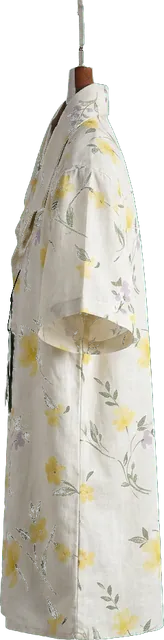
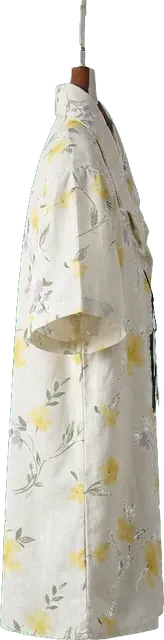
Home rails: thick rod, every piece side-on facing right, same height
- Thicker metal rod on the curved rails (Men, Women, Accessories)
- 9 more AI side photos (jackets, katua, polo, sweater, sweatshirt) and a new sky blue shirt side;
  every side photo mirrored so the collar / buttons point right
- Side photos are sized by height so wide pieces hang as tall as the rest
- Admin home photo: built-in side shows, Flip button, AI side prompt asks for the front to the right

diff --git a/src/components/ShowcasePhotoField.jsx b/src/components/ShowcasePhotoField.jsx
@@ -1,8 +1,8 @@
 import React, { useEffect, useRef, useState } from 'react';
 import { getShowcase } from '../showcaseStore';
-import { prepareShowcaseImage, urlToShowcaseImage, keyBgToShowcase, pickKeyColour } from '../utils/showcaseImage';
+import { prepareShowcaseImage, urlToShowcaseImage, keyBgToShowcase, pickKeyColour, mirrorShowcaseImage } from '../utils/showcaseImage';
 import { makeAiPhoto } from '../aiPhoto';
-import { CUTOUTS, cutoutSrc } from '../data/cutouts';
+import { CUTOUTS, cutoutSrc, cutoutSideSrc } from '../data/cutouts';
 
 // Admin product form: the background-free "home page photo" of a product (hanging rail / shoe wheel)
 // plus up to 3 more angles (back, side) for the quick view.
@@ -65,7 +65,7 @@ export default function ShowcasePhotoField({ productId, value, onChange, isDarkM
   if (value && value.image) shown = { src: value.image, side: value.side || null, hanger: !!value.hanger, extra: value.extra || [], from: value.auto ? 'auto' : 'new' };
   else if (value && (value.remove || value.off)) shown = null;
   else if (saved && saved.image) shown = { src: saved.image, side: saved.side || null, hanger: !!saved.hanger, extra: saved.extra || [], from: 'uploaded' };
-  else if (base && !(saved && saved.off)) shown = { src: cutoutSrc(base.id), side: null, hanger: !!base.hanger, extra: [], from: 'built-in' };
+  else if (base && !(saved && saved.off)) shown = { src: cutoutSrc(base.id), side: base.side ? cutoutSideSrc(base.id) : null, hanger: !!base.hanger, extra: [], from: 'built-in' };
 
   // the current state as an editable value (a built-in picture is turned into a data URL first)
   // 📌 pin: shown first on the home rail (1 = first). From the pending change, else from the saved entry.
@@ -87,7 +87,8 @@ export default function ShowcasePhotoField({ productId, value, onChange, isDarkM
     const cur = shownRef.current;
     if (!cur) return null;
     const image = cur.from === 'built-in' ? await urlToShowcaseImage(cur.src) : cur.src;
-    return { image, side: cur.side, hanger: cur.hanger, extra: [...cur.extra], pin: pinRef.current };
+    const side = cur.from === 'built-in' && cur.side ? await urlToShowcaseImage(cur.side) : cur.side;
+    return { image, side, hanger: cur.hanger, extra: [...cur.extra], pin: pinRef.current };
   };
   const change = (next) => {
     shownRef.current = next && next.image ? { src: next.image, side: next.side || null, hanger: !!next.hanger, extra: next.extra || [], from: 'new' } : null;
@@ -137,6 +138,12 @@ export default function ShowcasePhotoField({ productId, value, onChange, isDarkM
     });
   };
   const removeSide = () => run(async () => { const cur = await editable(); change({ ...cur, side: null }); });
+  // every side photo on the rail faces the same way (collar / buttons to the right); Flip mirrors one that does not
+  const flipSide = () => run(async () => {
+    const cur = await editable();
+    if (!cur || !cur.side) return;
+    change({ ...cur, side: await mirrorShowcaseImage(cur.side) });
+  });
   const removeExtra = (i) => run(async () => {
     const cur = await editable();
     cur.extra.splice(i, 1);
@@ -213,13 +220,20 @@ export default function ShowcasePhotoField({ productId, value, onChange, isDarkM
         </div>
         {shown && (
           <div className="text-center">
-            {shown.side ? <Thumb src={shown.side} big onRemove={removeSide} /> : (
+            {shown.side ? (
+              <>
+                <Thumb src={shown.side} big onRemove={removeSide} />
+                <button type="button" disabled={busy} onClick={flipSide} title="Mirror the side photo: the collar / buttons must point to the RIGHT, like every piece on the rail"
+                  className="mt-1 w-32 rounded border border-gray-300 py-1 text-[11px] font-semibold text-gray-600 hover:border-[#D4AF37] hover:text-[#D4AF37] disabled:opacity-50">⇋ Flip</button>
+              </>
+            ) : (
               <button type="button" disabled={busy} onClick={() => sideRef.current && sideRef.current.click()}
                 className="h-36 w-32 rounded border border-dashed border-gray-300 text-[11px] font-semibold text-gray-500 px-2 hover:border-[#D4AF37] hover:text-[#D4AF37] disabled:opacity-50">
                 + Side photo<br /><span className="font-normal">(optional)</span>
               </button>
             )}
             <p className="mt-1 text-[10px] font-semibold text-gray-500">SIDE</p>
+            {shown.side && <p className="w-32 text-[10px] leading-tight text-gray-400">Collar / buttons must point RIGHT →</p>}
           </div>
         )}
         <div className="flex flex-col gap-2 text-xs">

diff --git a/src/components/HangerRail.jsx b/src/components/HangerRail.jsx
@@ -47,16 +47,23 @@ export function PriceTagHang({ price, originalPrice, formatPrice, rotate = -6 })
 function Rod({ variant }) {
   if (variant === 'curve') {
     return (
-      <svg className="pointer-events-none absolute inset-x-0 w-full" style={{ top: ROD_Y - 3, height: SAG + 10 }} viewBox="0 0 1000 100" preserveAspectRatio="none" aria-hidden="true">
-        <defs>
-          <linearGradient id="kyvroRod" x1="0" x2="0" y1="0" y2="1">
-            <stop offset="0" stopColor="#d9dadc" />
-            <stop offset="0.45" stopColor="#9a9da3" />
-            <stop offset="1" stopColor="#c9cbce" />
-          </linearGradient>
-        </defs>
-        {/* quadratic curve: the middle drops by SAG (control point = 2 x SAG) */}
-        <path d="M0 6 Q500 194 1000 6" fill="none" stroke="url(#kyvroRod)" strokeWidth="6" vectorEffect="non-scaling-stroke" />
+      // a thick metal tube: soft shadow under it, the grey body, a light line along the top
+      // svg box: from ROD_Y - 10 px, SAG + 24 px high; the rod's middle is SAG px lower than its ends
+      <svg className="pointer-events-none absolute inset-x-0 w-full overflow-visible" style={{ top: ROD_Y - 10, height: SAG + 24 }} viewBox="0 0 1000 100" preserveAspectRatio="none" aria-hidden="true">
+        {(() => {
+          const u = 100 / (SAG + 24); // svg units per px
+          const y0 = 10 * u;
+          const c = 2 * (10 + SAG) * u - y0; // quadratic control point: the middle of the curve is (y0 + c) / 2
+          const d = (dy) => `M0 ${y0 + dy * u} Q500 ${c + dy * u} 1000 ${y0 + dy * u}`;
+          return (
+            <>
+              <path d={d(5)} fill="none" stroke="rgba(0,0,0,.10)" strokeWidth="10" strokeLinecap="round" vectorEffect="non-scaling-stroke" />
+              <path d={d(0)} fill="none" stroke="#a7aab0" strokeWidth="13" strokeLinecap="round" vectorEffect="non-scaling-stroke" />
+              <path d={d(-1)} fill="none" stroke="#c4c7cb" strokeWidth="8" strokeLinecap="round" vectorEffect="non-scaling-stroke" />
+              <path d={d(-3)} fill="none" stroke="#eef0f2" strokeWidth="3" strokeLinecap="round" vectorEffect="non-scaling-stroke" />
+            </>
+          );
+        })()}
       </svg>
     );
   }
@@ -215,9 +222,10 @@ export default function HangerRail({
                           )}
                           <div className={`relative h-[185px] sm:h-[235px] lg:h-[270px] w-full ${p.cutoutHanger ? '-mt-[3px]' : '-mt-[12px]'}`}>
                             {p.cutoutSide && (
+                              // sized by height (not width), so a wide side photo (a puffer jacket) hangs as tall as the shirts
                               <img src={p.cutoutSide} alt="" aria-hidden="true" loading="lazy" draggable={false}
-                                className={`absolute inset-0 h-full w-full object-contain object-top transition-transform duration-200 ease-in ${shadow}`}
-                                style={{ transform: `scaleX(${front ? 0 : 1})` }} />
+                                className={`absolute left-1/2 top-0 h-full w-auto max-w-none transition-transform duration-200 ease-in ${shadow}`}
+                                style={{ transform: `translateX(-50%) scaleX(${front ? 0 : 1})` }} />
                             )}
                             <img src={p.cutout} alt={p.name} loading="lazy" draggable={false}
                               className={`absolute inset-0 h-full w-full object-contain object-top transition-transform duration-300 ease-out ${shadow}`}

diff --git a/src/data/cutouts.js b/src/data/cutouts.js
@@ -3,28 +3,28 @@
 // hanger: the photo already shows its own hanger (only a wire is drawn); color: the colour in the photo.
 // A product that is gone or sold out is skipped; a rail with fewer than 4 falls back to photo cards.
 // Photos uploaded in the Admin product form (Firestore "showcase") replace these or add more (HomeShowcase.jsx).
-export const CUTOUT_VERSION = 6; // bump when the pictures change (browser cache)
+export const CUTOUT_VERSION = 7; // bump when the pictures change (browser cache)
 export const cutoutSrc = (id) => `/cutouts/${id}.webp?v=${CUTOUT_VERSION}`;
 // side: true = there is also a side-on picture (public/cutouts/<id>-side.webp); the piece hangs side-on and turns to the front on hover / tap
 export const cutoutSideSrc = (id) => `/cutouts/${id}-side.webp?v=${CUTOUT_VERSION}`;
 
 export const CUTOUTS = {
   men: [
-    { id: '1794400040000', hanger: true, color: "Design 4" },
+    { id: '1794400040000', hanger: true, side: true, color: "Design 4" },
     { id: '1794100046000', hanger: true, side: true, color: "Bottle Green" },
     { id: '1794100039000', hanger: true, side: true, color: "Dark Blue" },
     { id: '1794400073000', color: "Rose" },
-    { id: '1794600023000', hanger: true, color: "Navy" },
-    { id: '1794400041000', hanger: true, color: "Design 2" },
+    { id: '1794600023000', hanger: true, side: true, color: "Navy" },
+    { id: '1794400041000', hanger: true, side: true, color: "Design 2" },
     { id: '1793307041659', hanger: true, side: true, color: "Sky Blue" },
     { id: '1794400072000', hanger: true, side: true, color: "Design 5" },
-    { id: '1794100041000', color: "Maroon" },
-    { id: '1794600025000', hanger: true, color: "Navy" },
+    { id: '1794100041000', side: true, color: "Maroon" },
+    { id: '1794600025000', hanger: true, side: true, color: "Navy" },
     { id: '1794400044000', hanger: true, color: "Design 2" },
-    { id: '1794600005000', hanger: true, color: "Black" },
-    { id: '1794400043000', hanger: true, color: "Design 2" },
+    { id: '1794600005000', hanger: true, side: true, color: "Black" },
+    { id: '1794400043000', hanger: true, side: true, color: "Design 2" },
     { id: '1794400071000', hanger: true, side: true, color: "Design 2" },
-    { id: '1794400063000', color: "Design 4" },
+    { id: '1794400063000', side: true, color: "Design 4" },
     { id: '1794400023000', hanger: true, side: true }, // AI photo (front + side), Nov 2026
     { id: '1794100040000', hanger: true, side: true }, // AI photo (front + side), Nov 2026
     { id: '1794400026000', hanger: true, side: true }, // AI photo (front + side), Nov 2026

diff --git a/src/utils/showcaseImage.js b/src/utils/showcaseImage.js
@@ -146,6 +146,24 @@ export async function keyBgToShowcase(dataUrl) {
 }
 export const whiteBgToShowcase = keyBgToShowcase;
 
+// The same background-free picture mirrored left <-> right (Admin "Flip" on the side photo)
+export async function mirrorShowcaseImage(src) {
+  const img = await new Promise((resolve, reject) => {
+    const im = new Image();
+    im.crossOrigin = 'anonymous';
+    im.onload = () => resolve(im);
+    im.onerror = () => reject(new Error('This picture could not be opened.'));
+    im.src = src;
+  });
+  const c = document.createElement('canvas');
+  c.width = img.naturalWidth; c.height = img.naturalHeight;
+  const g = c.getContext('2d');
+  g.translate(c.width, 0); g.scale(-1, 1);
+  g.drawImage(img, 0, 0);
+  const blob = await new Promise((r) => c.toBlob(r, 'image/png'));
+  return prepareShowcaseImage(new File([blob], 'side.png', { type: 'image/png' }));
+}
+
 // Which flat background to ask the AI for, far from the product's colour: looks at the middle of the photo
 // (when the browser may read it), else at the colour name ("Bottle Green" -> magenta), else green.
 const KEYS = { green: [0, 255, 0], magenta: [255, 0, 255], blue: [0, 0, 255] };

diff --git a/api/_plan/aiphoto.js b/api/_plan/aiphoto.js
@@ -41,7 +41,8 @@ const prompts = (bg) => ({
       + 'If a person wears it, remove the person and show only the garment. Do not add or change any text or logo. Photorealistic e-commerce product photo.',
     front: 'Show this exact same garment hanging on a simple wooden clothes hanger, seen straight from the front, hanging neatly and not folded. ' + keep(bg),
     side: 'Show this exact same garment hanging on a simple wooden clothes hanger, seen from the side as a full 90-degree side profile, '
-      + 'so only one sleeve and the side seam face the camera, as if it hangs on a clothing rail. ' + keep(bg),
+      + 'so only one sleeve and the side seam face the camera, as if it hangs on a clothing rail. '
+      + 'The front of the garment (collar opening, buttons / zip, hood front) must point to the RIGHT side of the picture, the back to the left. ' + keep(bg),
   },
   shoe: {
     clean: 'Keep this exact same shoe exactly as it is in the photo: same angle, same position, same size, same colours, laces, logos and sole. '
